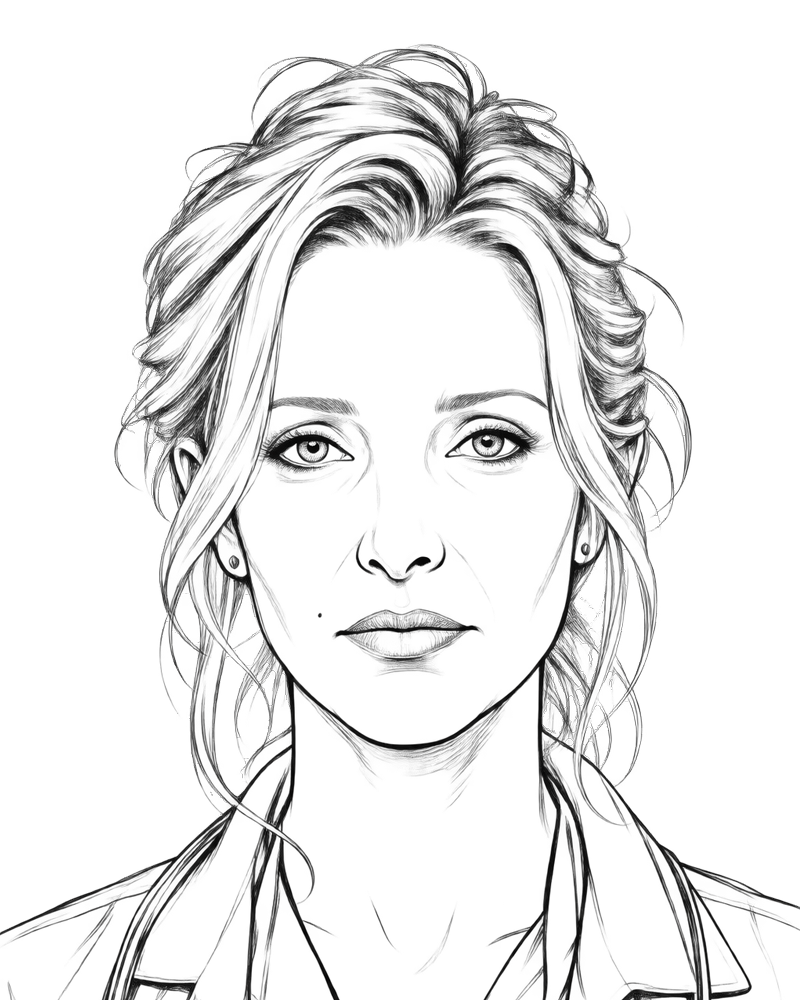
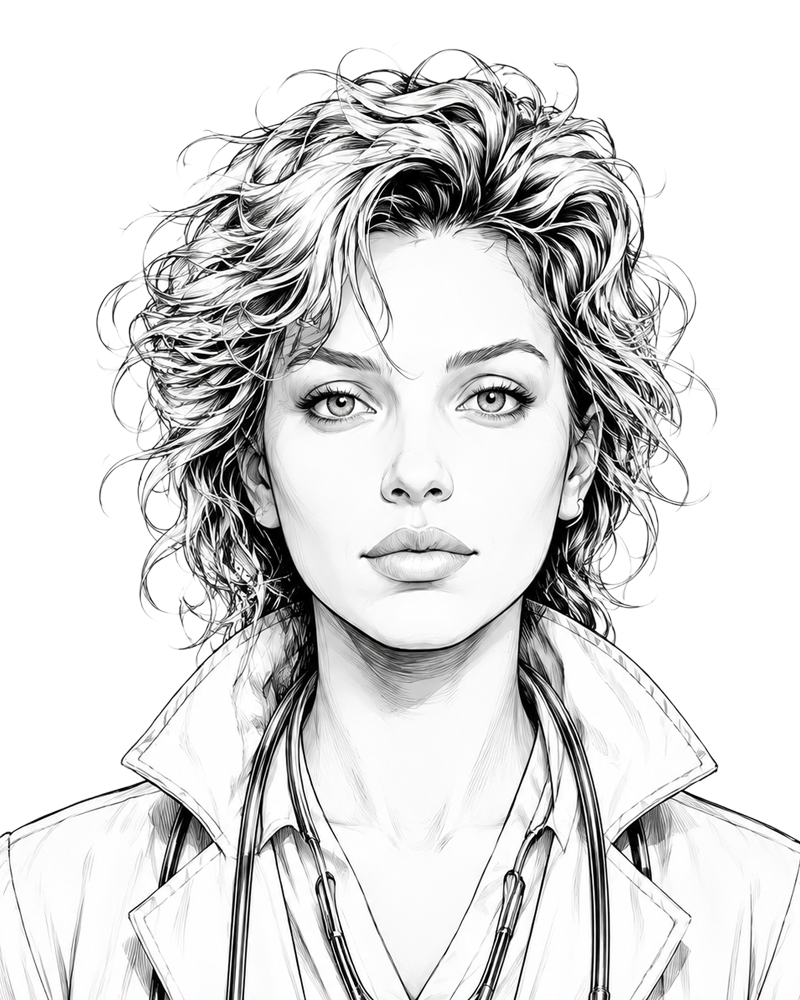
portrait update

diff --git a/js/app.js b/js/app.js
@@ -1,6 +1,6 @@
 (() => {
   'use strict';
-  const VERSION = '0.5.78-dev';
+  const VERSION = '0.5.79-dev';
   const playAudio = (name,options) => window.ETOSAudio?.play(name,options);
   const WARDEN_PIN = '8722';
   const TRANSFER_MS = 8000;
@@ -2396,7 +2396,7 @@
     away:[
       {name:'KATYA KOSMONAVT',role:'SYNTHETIC SYSTEMS SPECIALIST',primary:'Systems access / diagnostics / communications',mission:'Technical systems recovery',deployment:'HORIZON BASE AWAY TEAM',portrait:'assets/img/katya.png'},
       {name:'DR. REGINA PHALANGE',role:'MEDICAL OFFICER',primary:'Medical support / personnel assessment / biological hazards',mission:'Medical operations',deployment:'HORIZON BASE AWAY TEAM',portrait:'assets/img/phalange.png'},
-      {name:'DR. ALARIC FRITIGERN',role:'XENOSCIENCE RESEARCH OFFICER',primary:'Biological research assessment / sample evaluation',mission:'Scientific operations',deployment:'HORIZON BASE AWAY TEAM'},
+      {name:'DR. ALARIC FRITIGERN',role:'XENOSCIENCE RESEARCH OFFICER',primary:'Biological research assessment / sample evaluation',mission:'Scientific operations',deployment:'HORIZON BASE AWAY TEAM',portrait:'assets/img/fritigern.png'},
       {name:'BUBBA SPARXXX',role:'MILITARY OPERATIONS LIAISON',primary:'Security assessment / coordination with Horizon military personnel',mission:'Operational security',deployment:'HORIZON BASE AWAY TEAM',portrait:'assets/img/bubba.png'}
     ],
     support:[
@@ -2591,7 +2591,7 @@
 
   function renderArgozaSectorView(){
     const marker=argozaMarkerLayout.sectorHorizon,heron=argozaMarkerLayout.sectorHeron;
-    return `<section class="argoza-planet-level argoza-sector-view"><div class="argoza-sector-map"><header><div><span>REGIONAL OPERATIONS MAP</span><strong>LV-872 // HORIZON SECTOR</strong></div><small>ET TERRAFORMING SURVEY // REV. 2122-06</small></header><div><div class="argoza-map-frame" data-argoza-map-frame data-map-width="1672" data-map-height="941"><div class="argoza-map-coordinate-space" data-argoza-map-coordinate-space><img src="assets/img/command/weather-terrain.png" width="1672" height="941" alt="Stored regional terrain survey showing the Horizon operations sector"><button type="button" class="argoza-sector-site is-horizon argoza-nav-hotspot" data-argoza-planetary="base" data-argoza-marker="sectorHorizon" style="--marker-x:${marker.x}%;--marker-y:${marker.y}%;--marker-scale:${marker.scale}"><i></i><strong>HORIZON BASE</strong><span>OPERATIONS / RESEARCH</span></button><div class="argoza-sector-site is-heron argoza-config-marker" data-argoza-marker="sectorHeron" style="--marker-x:${heron.x}%;--marker-y:${heron.y}%;--marker-scale:${heron.scale}"><i></i><strong>HERON STATION</strong><span>PLANETARY TERRAFORMER / WATER CONTROL</span></div><b class="argoza-map-feature is-reservoir">RESERVOIR</b><b class="argoza-map-feature is-dam">DAM / WATER CONTROL</b><b class="argoza-map-feature is-river">RIVER SYSTEM</b></div></div>${renderArgozaMarkerDev(['sectorHorizon','sectorHeron'])}</div></div><aside class="argoza-sector-info"><article><h3>PLANETARY OPERATIONS</h3><p><strong>HORIZON BASE</strong> // Colony administration, personnel housing, logistics, biological survey, flora/fauna research, field operations, and scientific support.</p><p><strong>HERON STATION</strong> // Large-scale terraforming, atmospheric/environmental processing, water management, reservoir operations, and long-term development support.</p></article><article><h3>BASELINE CONDITIONS</h3><p>Dense tropical jungle, frequent heavy precipitation, high humidity, rugged heavily vegetated terrain, limited off-installation infrastructure, diverse indigenous flora/fauna, and difficult off-route travel.</p></article><article><h3>APPROACH CONDITIONS</h3><p>Heavy rain // Reduced visibility // Localized flooding // High winds // Surface access degraded.</p></article></aside></section>`;
+    return `<section class="argoza-planet-level argoza-sector-view"><div class="argoza-sector-map"><header><div><span>REGIONAL OPERATIONS MAP</span><strong>LV-872 // HORIZON SECTOR</strong></div><small>ET TERRAFORMING SURVEY // REV. 2122-06</small></header><div><div class="argoza-map-frame" data-argoza-map-frame data-map-width="1672" data-map-height="941"><div class="argoza-map-coordinate-space" data-argoza-map-coordinate-space><img src="assets/img/command/weather-terrain.png" width="1672" height="941" alt="Stored regional terrain survey showing the Horizon operations sector"><button type="button" class="argoza-sector-site is-horizon argoza-nav-hotspot" data-argoza-planetary="base" data-argoza-marker="sectorHorizon" style="--marker-x:${marker.x}%;--marker-y:${marker.y}%;--marker-scale:${marker.scale}"><i></i><strong>HORIZON BASE</strong><span>OPERATIONS / RESEARCH</span></button><div class="argoza-sector-site is-heron argoza-config-marker" data-argoza-marker="sectorHeron" style="--marker-x:${heron.x}%;--marker-y:${heron.y}%;--marker-scale:${heron.scale}"><i></i><strong>HERON STATION</strong><span>PLANETARY TERRAFORMER / WATER CONTROL</span></div><b class="argoza-map-feature is-dam">DAM / WATER CONTROL</b></div></div>${renderArgozaMarkerDev(['sectorHorizon','sectorHeron'])}</div></div><aside class="argoza-sector-info"><article><h3>PLANETARY OPERATIONS</h3><p><strong>HORIZON BASE</strong> // Colony administration, personnel housing, logistics, biological survey, flora/fauna research, field operations, and scientific support.</p><p><strong>HERON STATION</strong> // Large-scale terraforming, atmospheric/environmental processing, water management, reservoir operations, and long-term development support.</p></article><article><h3>BASELINE CONDITIONS</h3><p>Dense tropical jungle, frequent heavy precipitation, high humidity, rugged heavily vegetated terrain, limited off-installation infrastructure, diverse indigenous flora/fauna, and difficult off-route travel.</p></article><article><h3>APPROACH CONDITIONS</h3><p>Heavy rain // Reduced visibility // Localized flooding // High winds // Surface access degraded.</p></article></aside></section>`;
   }
 
   function renderArgozaPlanetary(){

diff --git a/index.html b/index.html
@@ -11,11 +11,11 @@
   <link rel="manifest" href="manifest.webmanifest">
   <link rel="preload" as="image" href="assets/img/command/weather-terrain.png" fetchpriority="high">
   <link rel="preload" as="image" href="assets/img/command/weather-storm.png" fetchpriority="high">
-  <link rel="stylesheet" href="css/app.css?v=0.5.78">
-  <link rel="stylesheet" href="css/themes/command.css?v=0.5.78">
-  <link rel="stylesheet" href="css/themes/medical.css?v=0.5.78">
-  <link rel="stylesheet" href="css/themes/edem.css?v=0.5.78">
-  <link rel="stylesheet" href="css/themes/argoza.css?v=0.5.78">
+  <link rel="stylesheet" href="css/app.css?v=0.5.79">
+  <link rel="stylesheet" href="css/themes/command.css?v=0.5.79">
+  <link rel="stylesheet" href="css/themes/medical.css?v=0.5.79">
+  <link rel="stylesheet" href="css/themes/edem.css?v=0.5.79">
+  <link rel="stylesheet" href="css/themes/argoza.css?v=0.5.79">
   <title>ETOS</title>
 </head>
 <body>
@@ -26,7 +26,7 @@
       <img id="brand-logo" class="brand-logo" src="assets/img/ellison-tanaka-logo.svg" alt="Ellison-Tanaka Colonial Systems">
       <div class="boot-copy">
         <p>ELLISON–TANAKA COLONIAL SYSTEMS</p>
-        <p>ETOS CORE ENVIRONMENT // BUILD 0.5.78-dev</p>
+        <p>ETOS CORE ENVIRONMENT // BUILD 0.5.79-dev</p>
         <p class="motto">BUILDING BETTER FUTURES.</p>
       </div>
       <button id="initialize-button" class="terminal-button" type="button">INITIALIZE TERMINAL</button>
@@ -49,7 +49,7 @@
 
       <footer class="terminal-footer">
         <span id="location-label">LV-872 // ORISON</span>
-        <span id="version-label">ETOS v0.5.78-dev</span>
+        <span id="version-label">ETOS v0.5.79-dev</span>
         <span id="interface-label">TOUCH INTERFACE READY</span>
       </footer>
     </section>
@@ -133,14 +133,14 @@
             <p id="sequence-reset-status" class="warden-reset-status" role="status" aria-live="polite"></p>
           </section>
           <button id="reset-session" class="danger-button" type="button">RESET ALL SESSION DATA</button>
-          <p class="small-note">Hold the corporate logo or active terminal heading for three seconds to reopen this panel.<br>Current build: <strong id="warden-version">v0.5.78-dev</strong></p>
+          <p class="small-note">Hold the corporate logo or active terminal heading for three seconds to reopen this panel.<br>Current build: <strong id="warden-version">v0.5.79-dev</strong></p>
         </div>
       </div>
     </div>
 
     <div id="rotate-warning" class="rotate-warning" hidden><div><h2>ROTATE DEVICE</h2><p>ETOS requires landscape orientation.</p></div></div>
   </main>
-  <script src="js/audio.js?v=0.5.78"></script>
-  <script src="js/app.js?v=0.5.78"></script>
+  <script src="js/audio.js?v=0.5.79"></script>
+  <script src="js/app.js?v=0.5.79"></script>
 </body>
 </html>

diff --git a/service-worker.js b/service-worker.js
@@ -1,4 +1,4 @@
-/* ETOS v0.5.78 development build: intentionally clears old offline caches. */
+/* ETOS v0.5.79 development build: intentionally clears old offline caches. */
 self.addEventListener('install',()=>self.skipWaiting());
 self.addEventListener('activate',event=>event.waitUntil((async()=>{for(const key of await caches.keys())await caches.delete(key);await self.clients.claim();})()));
 self.addEventListener('fetch',()=>{});

diff --git a/DEVELOPMENT_LOG.md b/DEVELOPMENT_LOG.md
@@ -1,3 +1,9 @@
+# 2026-08-24 — v0.5.79-dev
+
+- Mapped `assets/img/fritigern.png` onto Dr. Alaric Fritigern's existing Away Team card; the shared portrait frame, containment, and CRT styling remain unchanged.
+- Removed only the `RIVER SYSTEM` and `RESERVOIR` positioned annotations from the Horizon Sector render template, retaining `DAM / WATER CONTROL` and the complete underlying terrain artwork.
+- Preserved Horizon Base and Heron Station marker values, planetary forward/back navigation, developer controls, Crew layout, and Cryogenic Bay behavior.
+
 # 2026-08-24 — v0.5.78-dev
 
 - Reworked Briefing Files → Personnel Manifest into large Support/Military selectors with one vertically ordered roster visible at a time; opening the file always selects Support.

diff --git a/CHANGELOG.md b/CHANGELOG.md
@@ -1,3 +1,9 @@
+# v0.5.79-dev — Argoza portrait and map annotation cleanup
+
+- Added the supplied Fritigern portrait to his existing Away Team card through the shared crew portrait renderer.
+- Removed the River System and Reservoir decorative overlays from the Horizon Sector map.
+- Preserved the map artwork, marker configuration, navigation, developer controls, and unrelated terminal behavior.
+
 # v0.5.78-dev — Argoza Personnel Manifest readability
 
 - Replaced the simultaneous Support/Military manifest columns with two large same-panel roster selectors.
